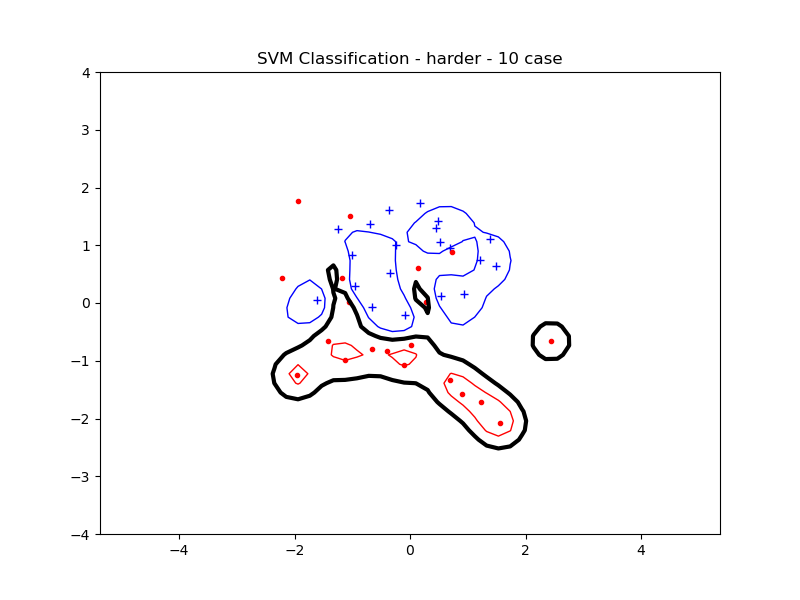
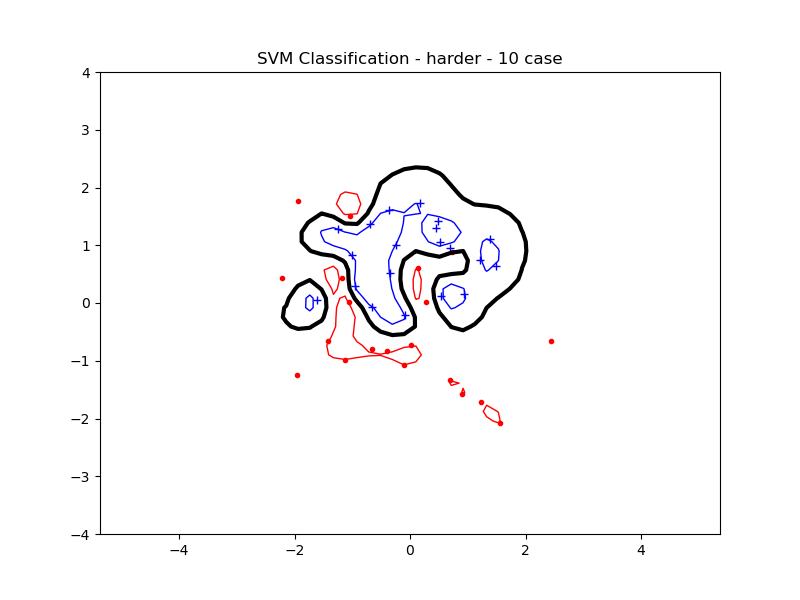
update

Changed region(s): [[0.3125, 0.27, 0.6875, 0.75], [0.6562, 0.54, 0.7188, 0.6]]

diff --git a/svm/svm.py b/svm/svm.py
@@ -32,7 +32,7 @@ def objective(alpha_):
 
 # return sum(alpha_i * target_i) = 0
 def zerofun(alpha_):
-    return np.dot(alpha_, inputs)
+    return np.dot(alpha_, targets)
 
 def compute_p_matrix(inputs, targets, N):
     P = []
@@ -138,11 +138,10 @@ def minimize_objective(inputs, targets, N, C):
 
 
 if __name__ == "__main__":
-    #cases = ['hard']
     cases = ['easy', 'hard', 'harder']
-    
+    # cases = ['hard']
     C_seq = [1, 5, 10]
-    #C_seq = [5]
+    # C_seq = [5]
     for C in C_seq:
         for case in cases:
             print(f"\nTesting {case} case:")
